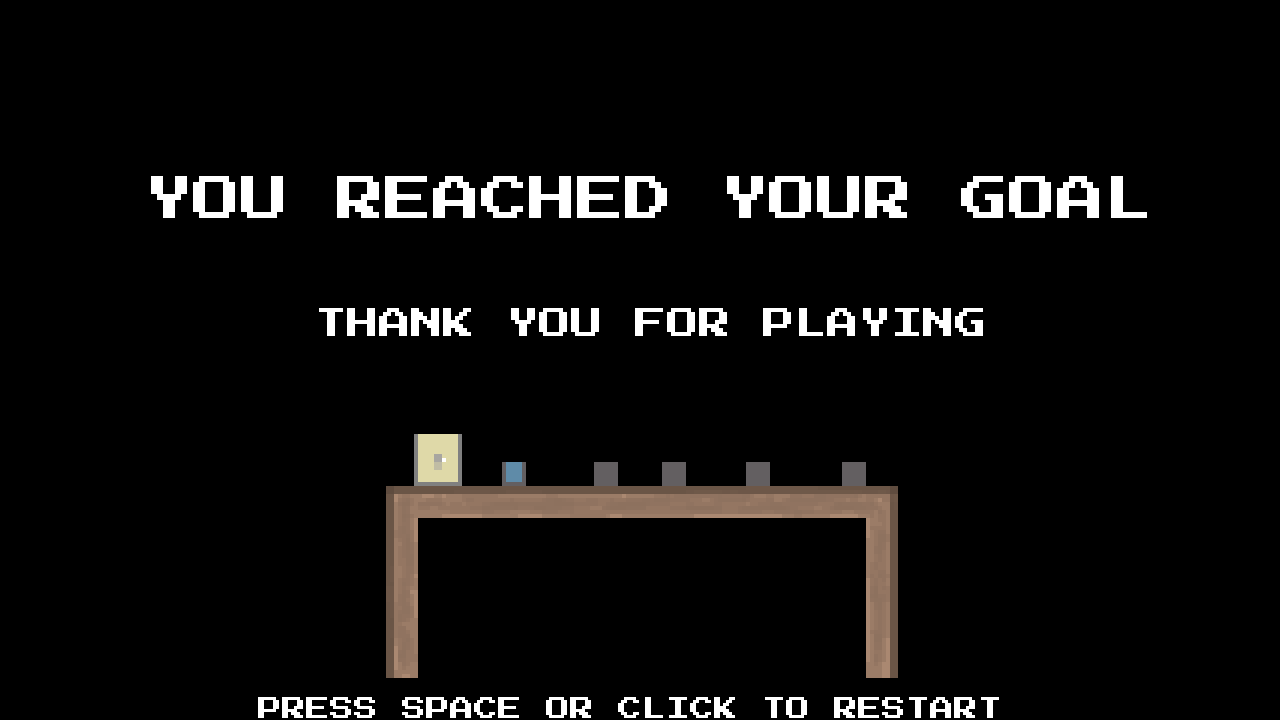
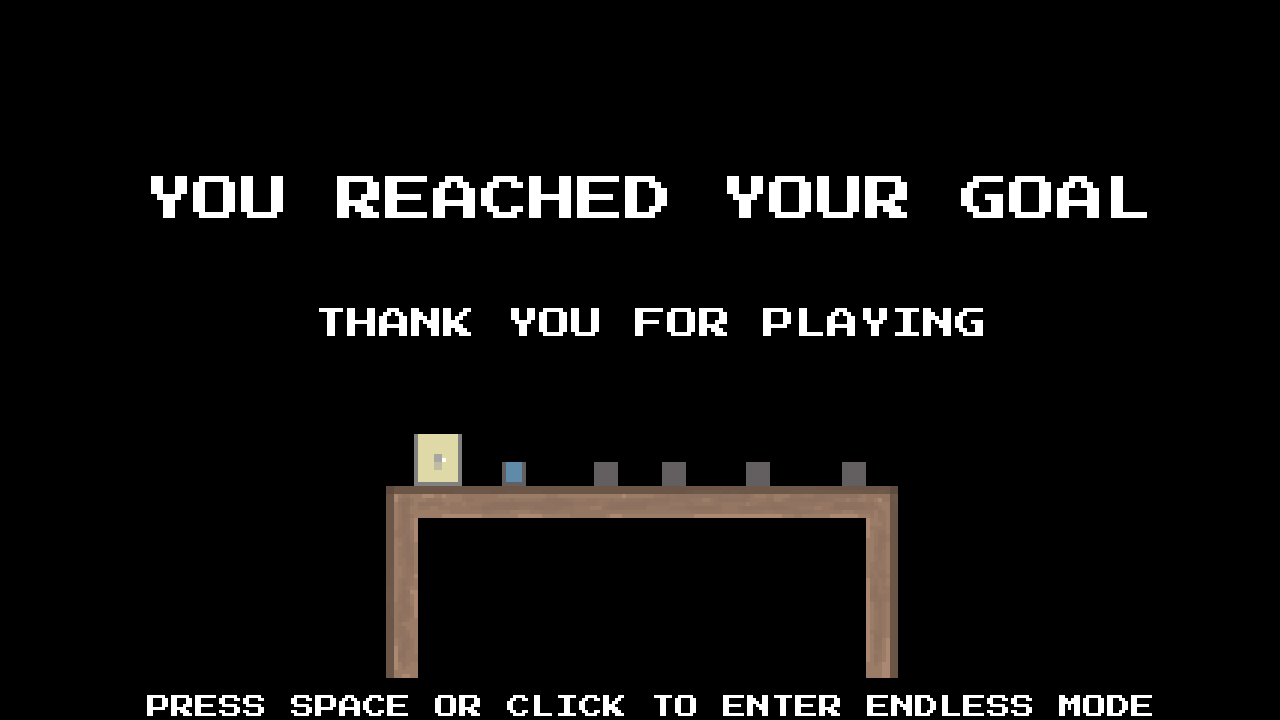
Add a sandbox mode

Changed region(s): [[0.0938, 0.9472, 0.9062, 1.0]]

diff --git a/src/scenes/sandbox/sandbox.ts b/src/scenes/sandbox/sandbox.ts
@@ -1,0 +1,110 @@
+import * as ex from 'excalibur';
+import {Machinery} from 'actors/stand/machinery';
+import {Queue} from 'util/queue';
+
+import {Resources} from '@/resources';
+import {BaseLevel} from 'scenes/level';
+import {Human} from 'actors/human';
+import {Stats} from '@/stats';
+
+export class Sandbox extends BaseLevel {
+    public onInitialize(engine: ex.Engine) {
+        super.onInitialize(engine);
+        this.machinery = new Machinery(880, 336, 0.01);
+
+        this.queues = [
+            new Queue({
+                id: 0,
+                spawnX: -32,
+                spawnY: 688,
+                despawnX: 160,
+                despawnY: engine.drawHeight + 32,
+                queueX: 100,
+                maxQueueSize: 9,
+                patienceEnabled: true,
+                machinery: this.machinery,
+                onServe: this.onServed.bind(this),
+                onFull: this.onFull.bind(this),
+            }),
+            new Queue({
+                id: 1,
+                spawnX: 220,
+                spawnY: engine.drawHeight + 32,
+                despawnX: 160,
+                despawnY: engine.drawHeight + 32,
+                queueX: 220,
+                maxQueueSize: 9,
+                patienceEnabled: true,
+                machinery: this.machinery,
+                onServe: this.onServed.bind(this),
+                onFull: this.onFull.bind(this),
+            }),
+        ];
+
+        this.spawns = [
+            {queueId: 0, timeUntilNextSpawn: 5000},
+            {queueId: 0, timeUntilNextSpawn: 200},
+            {queueId: 1, timeUntilNextSpawn: 5000},
+            {queueId: 0, timeUntilNextSpawn: 2000},
+            {queueId: 1, timeUntilNextSpawn: 500},
+            {queueId: 0, timeUntilNextSpawn: 2000},
+            {queueId: 0, timeUntilNextSpawn: 1000},
+            {queueId: 1, timeUntilNextSpawn: 500},
+            {queueId: 1, timeUntilNextSpawn: 1000},
+            {queueId: 0, timeUntilNextSpawn: 2000},
+            {queueId: 0, timeUntilNextSpawn: 1000},
+            {queueId: 1, timeUntilNextSpawn: 3000},
+            {queueId: 1, timeUntilNextSpawn: 2000},
+            {queueId: 1, timeUntilNextSpawn: 1000},
+            {queueId: 1, timeUntilNextSpawn: 1000},
+            {queueId: 0, timeUntilNextSpawn: 5000},
+            {queueId: 1, timeUntilNextSpawn: 5000},
+            {queueId: 0, timeUntilNextSpawn: 3000},
+            {queueId: 1, timeUntilNextSpawn: 2000},
+            {queueId: 0, timeUntilNextSpawn: 6000},
+            {queueId: 1, timeUntilNextSpawn: 7000},
+            {queueId: 0, timeUntilNextSpawn: 3000},
+            {queueId: 0, timeUntilNextSpawn: 5000},
+            {queueId: 1, timeUntilNextSpawn: 4000},
+            {queueId: 1, timeUntilNextSpawn: 5000},
+            {queueId: 0, timeUntilNextSpawn: 4000},
+            {queueId: 1, timeUntilNextSpawn: 5000},
+            {queueId: 0, timeUntilNextSpawn: 3000},
+            {queueId: 0, timeUntilNextSpawn: 4000},
+            {queueId: 1, timeUntilNextSpawn: 5000},
+            {queueId: 1, timeUntilNextSpawn: 6000},
+            {queueId: 0, timeUntilNextSpawn: 500},
+            {queueId: 0, timeUntilNextSpawn: 8000},
+            {queueId: 1, timeUntilNextSpawn: 4000},
+            {queueId: 0, timeUntilNextSpawn: 4000},
+            {queueId: 1, timeUntilNextSpawn: 8000},
+            {queueId: 0, timeUntilNextSpawn: 6000},
+            {queueId: 1, timeUntilNextSpawn: 3000},
+            {queueId: 1, timeUntilNextSpawn: 9000},
+            {queueId: 1, timeUntilNextSpawn: 6000},
+            {queueId: 0, timeUntilNextSpawn: 3000},
+            {queueId: 1, timeUntilNextSpawn: 9000},
+        ];
+
+        this.add(this.machinery);
+    }
+
+    update(engine: ex.Engine, delta: number): void {
+        super.update(engine, delta);
+
+        if (engine.input.keyboard.wasPressed(ex.Input.Keys.Num1)) {
+            Stats.nextLevel = 'level1';
+            this.engine.goToScene('nextlevel');
+        }
+    }
+
+    protected onServed(queue: Queue, serve: Human): void {
+        super.onServed(queue, serve);
+
+        Stats.addMoney(serve.outOfPatience ? 1 : 2);
+    }
+
+    public onActivate(): void {
+        super.onActivate();
+    }
+}

diff --git a/src/index.ts b/src/index.ts
@@ -1,6 +1,7 @@
 import * as ex from 'excalibur';
 import {Level1} from 'scenes/level1/level1';
 import {Level2} from 'scenes/level2/level2';
+import {Sandbox} from 'scenes/sandbox/sandbox';
 import {GameOver} from 'scenes/gameover/gameover';
 import {NextLevel} from 'scenes/nextlevel/nextlevel';
 import {init, Resources} from './resources';
@@ -17,6 +18,7 @@ class Game extends ex.Engine {
     public start() {
         game.add('level1', new Level1());
         game.add('level2', new Level2());
+        game.add('sandbox', new Sandbox());
         game.add('nextlevel', new NextLevel());
         game.add('endgame', new EndGame());
         game.add('gameover', new GameOver());

diff --git a/src/actors/human.ts b/src/actors/human.ts
@@ -114,6 +114,10 @@ export class Human extends ex.Actor {
             this.setDrawing(Animation.IDLE);
         });
 
+        if (!this.scene.engine.input.pointers.primary.lastWorldPos) {
+            return;
+        }
+
         if (this.scene.engine.input.pointers.primary.isActorUnderPointer(this)) {
             this.setDrawing(Animation.SELECTED);
         }

diff --git a/src/scenes/endgame/endgame.ts b/src/scenes/endgame/endgame.ts
@@ -21,7 +21,7 @@ export class EndGame extends ex.Scene {
         }
 
         if (engine.input.keyboard.isHeld(ex.Input.Keys.Space) || engine.input.pointers.primary.isDragging) {
-            this.engine.goToScene('level1');
+            this.engine.goToScene('sandbox');
         }
     }
 
